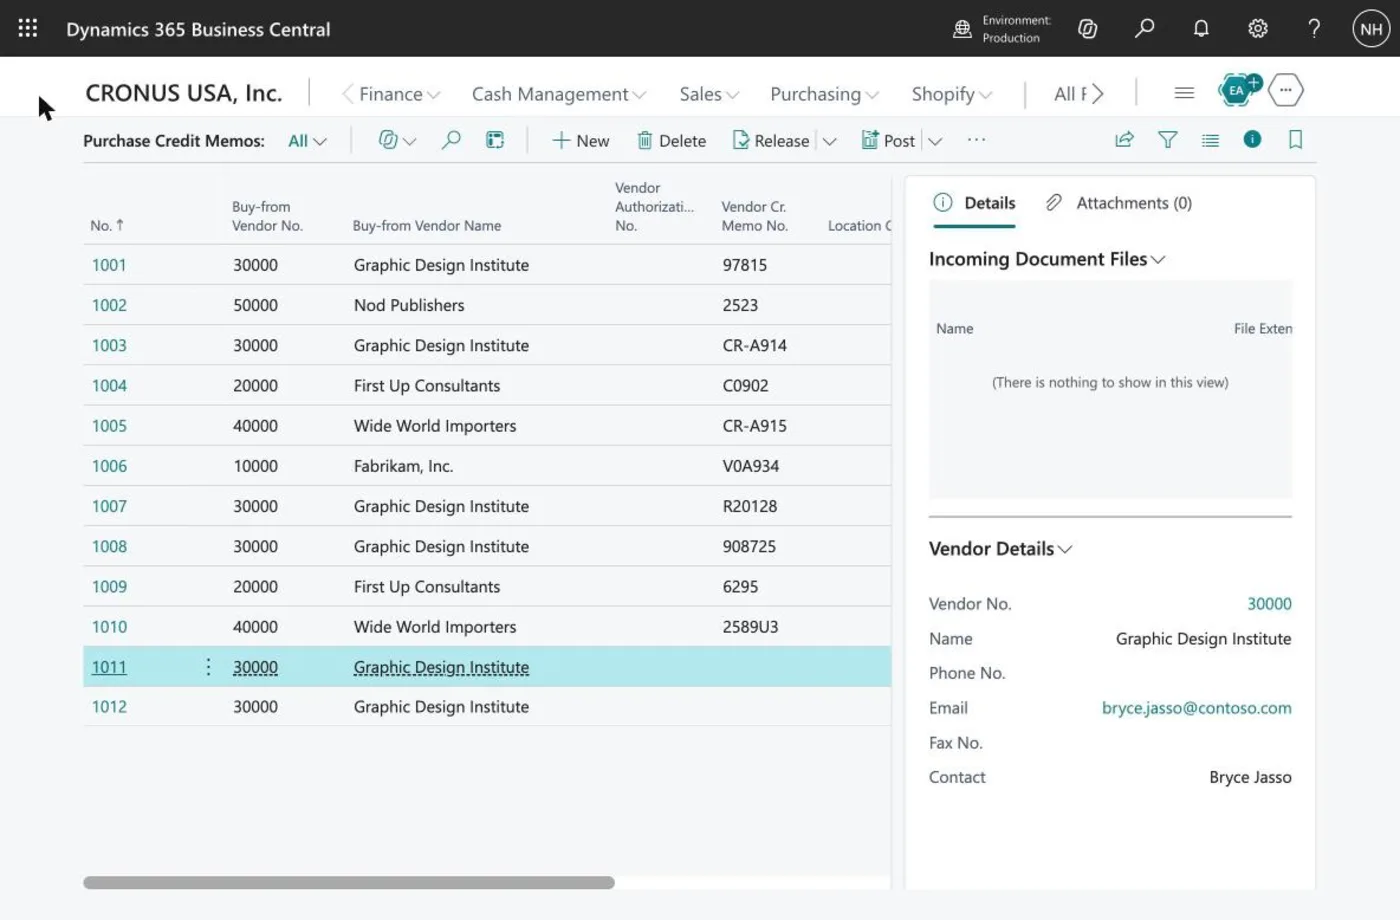
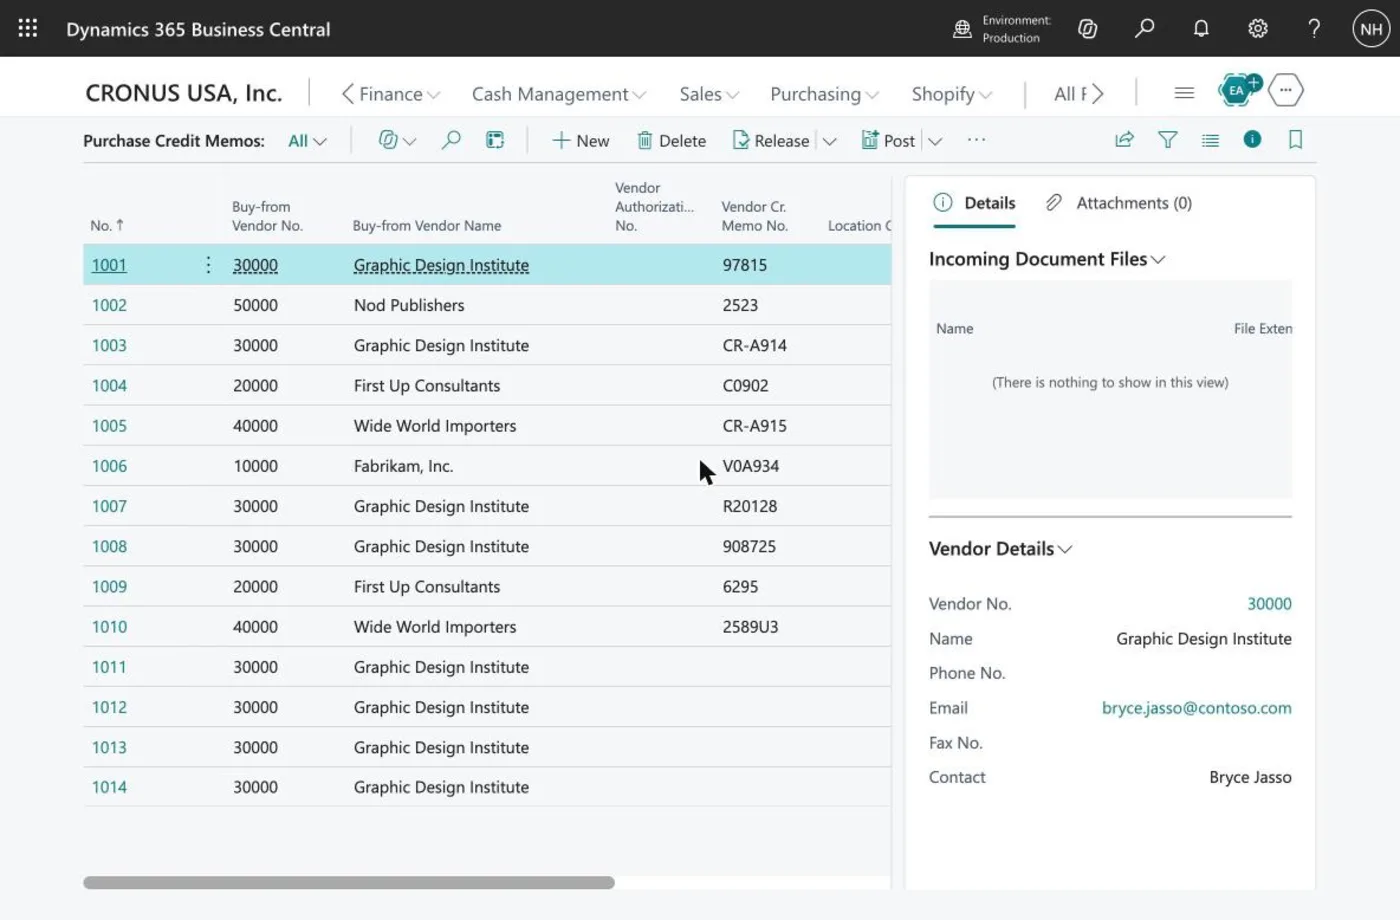
DeepSeek Harness part 4: purchase-order-anchored run, who holds which number, posted credits with vendor balance before and after

diff --git a/content/deepseekharnessaccounting.md b/content/deepseekharnessaccounting.md
@@ -21,8 +21,8 @@ In [LLM Benchmarking](/posts/llmbenchmark/) I measured six models on accountancy
 3. **What a chat answer gets right and wrong,** checked against Microsoft Learn.
 4. **How the harness approaches the case:** understand first, then look up, then ask, and do the sums with code.
 5. **What it needs besides the documentation:** the company's habits, the law, the vendor, and the records an auditor will want.
-6. **One run, start to finish,** on the real Cronus demo company, with screenshots of the draft credit memos it created.
-7. **What a person does next,** because the harness never posts.
+6. **One run, start to finish,** on the real Cronus demo company, from two purchase order numbers to two draft credit memos, with screenshots.
+7. **What a person does next:** check the tax, add the missing paper, approve and post, with the vendor balance before and after.
 
 **Why:** accounting work has branches, rules that live outside the product, and consequences that cannot be undone. A harness that looks things up, reads the ledger, shows its sources and stops at the right place is useful. A model that answers fluently is not enough, and the difference is easiest to see on a worked example.
 
@@ -51,7 +51,30 @@ This is a good test because there is no single answer. The right documents depen
 2. What happens to the **wrong** items: keep them free, keep them at a discount, or send them back?
 3. What happens to the **broken** items: scrap them here, send them back, or wait for replacements?
 
-For the run I used real data from Business Central's Cronus demo company. The vendor is Graphic Design Institute. Receipt 107145 is 10 lamps that all arrived broken, with a $385.00 credit agreed and the lamps scrapped here. Receipt 107149 is 10 mobile pedestals that arrived instead of the item ordered, kept for a $400.00 allowance, with 4 of the 10 already sold. Both invoices are posted.
+For the run I used real data from Business Central's Cronus demo company, and I started the scenario from **purchase order numbers**, because that is what the people who found the problem actually have. The vendor is Graphic Design Institute. Purchase order 106014 was 15 lamps, and 6 of the 15 arrived broken. The vendor agreed to credit $200.00 for them, and we will scrap them here. Purchase order 106015 was 5 yellow guest chairs that arrived with the wrong finish. We will keep them for a $75.00 allowance. Both orders were received and invoiced in February, and the invoices are posted.
+
+### In practice: who holds which number
+
+Think about who is in front of which document when the goods arrive.
+
+| Who | What they have in front of them | When |
+|---|---|---|
+| **Goods-in clerk** | The vendor's delivery note, our purchase order number, and the order's lines. Posting the receipt creates the receipt number. | The day the goods arrive |
+| **Buyer** | The purchase order number, the vendor's order confirmation and the negotiation. | Throughout |
+| **Accounts payable** | The vendor's invoice number, then our posted invoice number, the payment status and the vendor's credit note. | Days or weeks later |
+| **Controller** | The approval limits, and the finished file for the auditors. | At approval and at audit |
+
+The one number that every role shares is the **purchase order number**. The receipt number and the invoice number are created later, by different people, and the people who open the boxes rarely have them. That is why the harness should start from the purchase order number, and why I wrote the scenario that way.
+
+There are two moments when a problem is found. **At goods-in**, nothing is invoiced yet, and the fix is cheap: receive only what is good, or receive everything into a quality-control location, note the shortfall on the receipt, tell the buyer, and let the invoice be matched to what was really accepted. No credit memo is needed. **Later**, after the invoice is posted and paid, the fix is a credit memo and a claim. This post is about the second, harder case, which is also the one where the paperwork has to be traced back from the order.
+
+Here is what Business Central holds for these orders. The Purchase Orders list does not show 106014 or 106015 at all, because an order that is fully received and invoiced is deleted when the last invoice posts. The order number survives on the posted receipt and the posted invoice, which is how the harness finds them.
+
+![](assets/images/deepseekharnessaccounting/bc-purchase-orders-list.webp)
+*The open Purchase Orders list. The numbers jump from 106008 to 106024, because the fully invoiced orders 106014 and 106015 are no longer there*
+
+![](assets/images/deepseekharnessaccounting/bc-receipt-107222-order-no.webp)
+*Posted purchase receipt 107222. Order No. is 106014, and Vendor Shipment No., where the delivery note number belongs, is empty*
 
 :::brain-power Before you read on
 Which of the three questions above would change the Business Central documents the most? Keep your answer in mind. The harness has to find the answers in the ledger, and some of them it cannot find at all.
@@ -86,11 +109,12 @@ Microsoft Learn also has a training module for this kind of situation, [Manage r
 
 The order matters: understand first, then search. A model that has learned accounting can already see what kind of problem this is: a vendor allowance on goods that are partly sold, and a credit for goods that are scrapped. It can see that a $385 credit on $428 of lamps is a $43 loss, not a gain. No Business Central page says that. What the model cannot know from its weights is how **this product** behaves, and that is what the lookup is for:
 
-1. **Understand.** Before it searches, the harness writes a short analysis from the model's own knowledge of accounting, and marks every statement that depends on how Business Central behaves as "to verify".
-2. **Search.** It calls Microsoft Learn's MCP tool `microsoft_docs_search` with Business Central terms from the case, never figures or names.
-3. **Fetch and verify.** It reads the pages with `microsoft_docs_fetch`, and for each "to verify" statement says whether Learn confirms it, changes it, or does not cover it, with the page and the sentence.
-4. **Read the ledger.** It reads the facts of the case from Business Central itself, so it never asks a person for something the data holds.
-5. **Ask.** Only then does it ask the person the questions that neither the model, the documents nor the ledger can answer.
+1. **Anchor.** Start from the purchase order number. If the case has none, ask for it first. Follow the order number to the receipts and invoices in the ledger.
+2. **Understand.** Before it searches, the harness writes a short analysis from the model's own knowledge of accounting, and marks every statement that depends on how Business Central behaves as "to verify".
+3. **Search.** It calls Microsoft Learn's MCP tool `microsoft_docs_search` with Business Central terms from the case, never figures or names.
+4. **Fetch and verify.** It reads the pages with `microsoft_docs_fetch`, and for each "to verify" statement says whether Learn confirms it, changes it, or does not cover it, with the page and the sentence.
+5. **Read the rest of the ledger.** It reads the other facts of the case from Business Central itself, so it never asks a person for something the data holds.
+6. **Ask.** Only then does it ask the person the questions that neither the model, the documents nor the ledger can answer.
 
 If nothing documents a step, the harness says so and asks a person. It also does the arithmetic with code and not in its head, for example the share of an allowance across receipt lines.
 
@@ -114,67 +138,83 @@ Things also go wrong: a vendor that has stopped trading, a vendor blocked in Bus
 
 ## Step 4: One run, start to finish
 
-For the run I used DeepSeek Harness in its headless mode with the DeepSeek V4 Flash model. It had two connections: the Microsoft Learn MCP server, and the Business Central MCP server with a configuration that could read the ledger and create and modify purchase credit memos and their lines, and nothing else. (The setup, and what went wrong on the way, is in [Connecting DeepSeek Harness to Business Central](/posts/deepseekharnessbusinesscentral/).) The harness also had the company wiki and a skill that set out the method. I gave it the scenario and asked for five things: look up the product behaviour, read the ledger, name the jurisdiction and look up the tax rule and the GAAP treatment, write a plan with a source for each step, then create the two draft credit memos and never post. Here is the run, as a conversation. Every quoted line is a real query or a real reply from the logs, and long replies are cut.
+For the run I used DeepSeek Harness in its headless mode with the DeepSeek V4 Flash model. It had two connections: the Microsoft Learn MCP server, and the Business Central MCP server with a configuration that could read the ledger and create and modify purchase credit memos and their lines, and nothing else. (The setup, and what went wrong on the way, is in [Connecting DeepSeek Harness to Business Central](/posts/deepseekharnessbusinesscentral/).) The harness also had the company wiki and a skill that set out the method, starting with "start from the purchase order number". I gave it the scenario above and asked for four things: read the ledger from the purchase orders, look up the product behaviour, name the jurisdiction and look up the tax rule and the GAAP treatment, and write a plan with a source for each step. Then I asked it to create the two draft credit memos and never post. Here is the run, as a conversation. Every quoted line is a real query or a real reply from the logs, and long replies are cut.
 
 ![](assets/images/deepseekharnessaccounting/fireside-deepseek.svg)
-*DeepSeek Harness works one vendor dispute from start to finish*
+*DeepSeek Harness starts from two purchase order numbers and ends with two draft credit memos*
 
 ### What it read
 
-The harness read the vendor, the receipts, the invoice lines, the item ledger, the accounting periods and the existing credit memos. It found that receipt 107145 is 10 lamps at $42.80, a cost of $428.00, and receipt 107149 is 10 pedestals at $338.20, a cost of $3,382.00. Nothing in the data links a receipt to its invoice, so it matched them by posting date and exact amount, and asked a person to confirm. This is what it was looking at in the Business Central web client. Invoice 108139 for the lamps is paid, and the related G/L entries show the payment out of cash:
+The harness looked for orders 106014 and 106015 first and found nothing, and then listed all 14 open orders to be sure. Then it did what the numbers allow: it searched the posted receipts and invoices for those order numbers. Order 106014 led to receipt **107222** (15 lamps at $42.80, a cost of $642.00) and invoice **108216**. Order 106015 led to receipt **107223** (5 chairs at $150.30, a cost of $751.50) and invoice **108217**. Both invoices are paid, and both were posted on 28 February 2026, so the credits cannot reduce an unpaid balance. They become a refund to claim, or a balance to offset. Here is invoice 108216 in the web client. In this demo data the Vendor Invoice No. field repeats the purchase order number, which is a second way to reach the invoice from the order:
 
-![](assets/images/deepseekharnessaccounting/bc-posted-invoice-108139-paid.webp)
-*Posted purchase invoice 108139 for the lamps. The related G/L entries include a cash payment of $453.68, so the invoice is paid*
-
-![](assets/images/deepseekharnessaccounting/bc-posted-invoice-108143.webp)
-*Posted purchase invoice 108143 for the 10 ATHENS Mobile Pedestals, item 1906-S, $3,382.00 plus $202.92 tax*
-
-Both invoices are paid, so the credits cannot reduce an unpaid balance. They become a refund to claim, or a balance to offset. It also found the periods up to October 2025 closed, so the credits must post in an open period.
+![](assets/images/deepseekharnessaccounting/bc-invoice-108216.webp)
+*Posted purchase invoice 108216 for the lamps. Its Vendor Invoice No. is 106014, the purchase order number*
 
 ### What it concluded
 
-It worked out that the $385.00 credit leaves $43.00 of the lamps' $428.00 cost unrecovered, and that the $400.00 allowance on the pedestals is $160.00 against the 4 sold and $240.00 against the 6 in stock. For the tax it chose **Florida**, because the vendor is in Miami and both invoices were taxed at 6%, citing Fla. Stat. § 212.17 and Rule 12A-1.014, and noting that the lamps are scrapped, not returned, so the statute does not fit them on its face. For the accounting it cited ASC 705-20-25-1, read in KPMG's public inventory handbook because the FASB Codification is paywalled, and flagged both credits for a qualified accountant. It applied the wiki: the lamps cost $42.80 a unit, under $50, so scrapping them is right, and each credit is under the $500 approval limit, though together they are $785.
+For the tax it chose **Florida**, because the vendor is in Miami and the invoices are taxed at exactly 6%, citing Fla. Stat. § 212.17 (the credit must carry the tax). It also said what it could not settle: the ship-to on both invoices is Atlanta, so Florida tax on a Georgia delivery may be the wrong situs, and it asked a person to confirm. That question was the right one. The harness could not see the field that settles it, because the API does not return a tax area. In the web client the posted invoices carry **Tax Area Code ATLANTA, GA**, so its Florida conclusion was wrong, and I come back to this below. For the accounting it cited ASC 705-20-25-1, read in KPMG's public inventory handbook because the FASB Codification is paywalled, and flagged both credits for a qualified accountant. It also asked how to spread the $200.00: across all 15 lamps, which takes the unit cost from $42.80 to $29.47, or only over the 6 broken ones, which is $33.33 a lamp.
+
+Not all of its lookups were useful. The internet search returned an unrelated tax-credit form among the Florida statutes, and one Learn search returned a page about Canadian sales tax. The harness read past them, which is what a harness should do and what a person would have to do too.
 
 ### What it created
 
-Then it created the drafts. These are the two credit memos in Business Central, listed beside the existing ones. Memos 1011 and 1012 have no vendor credit memo number, because the vendor has not issued one:
+Then it created the drafts. These are the two credit memos in Business Central, listed beside the existing ones. Memos 1013 and 1014 have no vendor credit memo number, because the vendor has not issued one. (1011 and 1012 are earlier test drafts from my first run, and the harness noticed them and flagged them.)
 
 ![](assets/images/deepseekharnessaccounting/bc-draft-credit-memos-list.webp)
-*The Purchase Credit Memos list. 1011 and 1012 are the harness's drafts. The Vendor Cr. Memo No. column is empty because the vendor has not issued a credit note*
+*The Purchase Credit Memos list. 1013 and 1014 are the harness's drafts. The Vendor Cr. Memo No. column is empty because the vendor has not issued a credit note*
 
-![](assets/images/deepseekharnessaccounting/bc-draft-1011-open.webp)
-*Draft credit memo 1011 for Graphic Design Institute. Its status is Open, so it is not posted. The Post button is there for a person to use*
+![](assets/images/deepseekharnessaccounting/bc-draft-1013-open.webp)
+*Draft credit memo 1013 for Graphic Design Institute. Its status is Open, so it is not posted. The Post button is there for a person to use*
 
-![](assets/images/deepseekharnessaccounting/bc-draft-1011-lines.webp)
-*Draft 1011: one line, subtotal $385.00, tax $11.55, total $396.55*
+![](assets/images/deepseekharnessaccounting/bc-draft-1013-lines.webp)
+*Draft 1013 for the lamps: one line, subtotal $200.00, tax $6.00, total $206.00*
 
-![](assets/images/deepseekharnessaccounting/bc-draft-1012-lines.webp)
-*Draft 1012 for the pedestals: subtotal $400.00, tax $12.00, total $412.00*
+![](assets/images/deepseekharnessaccounting/bc-draft-1014-lines.webp)
+*Draft 1014 for the chairs: subtotal $75.00, tax $2.25, total $77.25*
 
-Each draft has one line of type **G/L Account**, number 72140, with a description that names the receipt, for example "Purchase allowance - Receipt 107145 - 10 AMSTERDAM Lamps 1928-S, all broken, scrapped on site".
+Each draft has one line of type **G/L Account**, number 72140, with a description that names both the purchase order and the receipt, for example "Purchase allowance PO 106014 / posted receipt 107222 - 6 of 15 AMSTERDAM Lamps 1928-S arrived broken". The run also shows the small frictions of working through an API. The harness created memo 1013 with a posting date from the end of the demo data and then corrected it, and its first description for 1014 was 105 characters when the field holds 100, so Business Central rejected it and it shortened the text.
 
 ### What it could not do
 
-The harness first tried the documented line: type **Charge (Item)**, using the wiki's `PURCH-ALLOW` item charge. Business Central answered "The Item Charge does not exist", and no tool can create item charges, so it fell back to a G/L account line. It said plainly what that costs: **a G/L line does not revalue inventory**, which is the whole point of the allowance procedure. It listed the rest of what it could not do:
+The harness first tried the documented line: type **Charge (Item)**, using the wiki's `PURCH-ALLOW` item charge. Business Central answered "The Item Charge does not exist", and no tool can create item charges, so it fell back to a G/L account line. It said plainly what that costs: **a G/L line does not revalue inventory**, which is the whole point of the allowance procedure, and it noted that this contradicts the wiki rather than following the wiki silently. It listed the rest of what it could not do:
 
-- It could not assign the allowance to the receipts, apply the credits to the paid invoices, scrap the lamps or run **Adjust Cost - Item Entries**.
-- The tax on the drafts came out at 3%, not 6%, because the API cannot set the tax area, which leaves the two memos $23.55 short.
+- It could not assign the allowance to the receipts, because the assignment is a screen action. It could not apply the credits to the paid invoices, scrap the lamps, run **Adjust Cost - Item Entries** or put the invoices on hold, as the wiki's hold rule asks, which was moot anyway because both invoices are paid.
+- The tax on the drafts came out at 3%, not 6% ($6.00 and $2.25 instead of $12.00 and $4.50). The harness said the API cannot set the tax area on the header. As the next section shows, that was not the cause.
 - It reported that the header totals read 0.00 through the API. In the Business Central web client they are correct, as the screenshots show.
-- It could not see the vendor ledger entries to confirm the open balance.
 
-It stopped with seven questions for a person, among them: the vendor's credit note numbers and dates; whether the two credits are one $785 claim needing the controller or two under the limit; which four pedestals were sold, since the ledger shows a single shipment of 10; whether the jurisdiction is Florida (the vendor) or Georgia (both receipts ship to Atlanta); whether `PURCH-ALLOW` should be created; and how to treat four older draft credit memos for the same vendor that may overlap.
+It stopped with four questions for a person: who sets the tax area before posting, and whether 6% Florida tax is what the vendor will actually credit given the Atlanta delivery; whether to create `PURCH-ALLOW` and redo the drafts on it; how to spread the $200.00 over the lamps; and who confirms ASC 705-20 against the Codification before anyone posts.
 
-The run took 8 minutes 58 seconds. Nothing was posted, because the harness had no tool that posts.
+The run took 6 minutes 17 seconds. Nothing was posted, because the harness had no tool that posts.
 
-## Step 5: What a person does next
+## Step 5: What a person does next, and then did
 
-The harness never posts. Its output is a plan with sources and two unposted drafts, and a person has more to do before posting:
+The harness never posts. Its output is a plan with sources and two unposted drafts, and a person has more to do before posting. I played that person, with the same Business Central tools open in the web client, and I recorded each step.
 
-1. **Check the draft against the plan.** The harness stated its own limits, so the person knows where to look.
-2. **Fix the line.** Create the item charge, change each G/L line to a **Charge (Item)** line, and assign it to the receipt, so that inventory is revalued and the cost reaches the cost of goods sold.
-3. **Fix the tax.** Set the tax area so the credits carry 6% and not 3%, and settle Florida or Georgia with an accountant.
-4. **Get the paper.** Fill in the vendor's credit note number once the vendor issues it, and keep the vendor's written agreement and the evidence of the defect with the file.
-5. **Approve and post.** Someone with authority approves, then posts in an open period. Then the person applies the credits to the paid invoices, or claims the refund, and runs **Adjust Cost - Item Entries**.
+**Before.** Vendor 30000 had a balance of $9,979.57:
+
+![](assets/images/deepseekharnessaccounting/bc-vendor-balance-before.webp)
+*Graphic Design Institute before posting: balance $9,979.57*
+
+**Check the tax, and find that the harness was wrong.** Both drafts already had Tax Area Code ATLANTA, GA and the line tax group FURNITURE, the same as the posted invoices, so the harness's explanation (the API cannot set the area) was not the cause. The cause is in the Tax Details: the rates have effective dates, and a new set takes effect on 31 August 2026. A credit memo dated 13 November 2026 picks up the new, lower rate, 3%, while the invoices from February used the old one, 6%. The harness could not see this. Nothing in the API shows tax rates by date, and it is the kind of thing that a person with the right page open finds in a minute.
+
+![](assets/images/deepseekharnessaccounting/bc-tax-details-effective-dates.webp)
+*Tax Details: each jurisdiction has rates with effective dates of 1 January 2024 and 31 August 2026. A document dated after 31 August takes the newer rate*
+
+To reverse the tax at the rate the vendor originally charged, I dated both credits 30 August 2026, the last day of the old rates. The tax then came out at 6% ($12.00 and $4.50). That is a workaround for this demo data. In a real company the accountant decides which rate applies to a credit for an invoice from an earlier period, and the harness's job is to raise the question, which it did.
+
+**Get the paper.** Business Central will not post a credit memo without a Vendor Cr. Memo No. The vendor has not issued a credit note, so I entered the obviously fake references TEST-1013 and TEST-1014. In real life this is the vendor's own document, and a harness must never invent it.
+
+**Approve and post.** I released each memo and posted it. Business Central posted 1013 as **109001** and 1014 as **109002**:
+
+![](assets/images/deepseekharnessaccounting/bc-credit-memo-posted-109001.webp)
+*Posted purchase credit memo 109001: G/L account 72140, subtotal $200.00, tax $12.00, total $212.00*
+
+**After.** The vendor's balance fell by the two credits, $212.00 and $79.50:
+
+![](assets/images/deepseekharnessaccounting/bc-vendor-balance-after.webp)
+*Graphic Design Institute after posting: balance $9,688.07, which is $9,979.57 less $291.50*
+
+Two things are still not right. The lines are G/L account lines, so inventory is **not** revalued and the lower cost does not reach the cost of goods sold. The documented route is a Charge (Item) line assigned to the receipt, followed by **Adjust Cost - Item Entries**. And the credits are not applied to the paid invoices, so the balance reflects a vendor refund still to be claimed. Both are for a person with the item charge set up.
 
 :::no-dumb-questions
 **Q: Is this more work than asking the chat assistant?**
@@ -205,7 +245,7 @@ The cost of goods sold for the items that you already sold has not changed, so y
 - A chat answer can be fluent and incomplete. The errors that matter are the steps it leaves out, and a harness with documentation tools finds them.
 - Start the plan from what the model knows about accounting, mark what depends on the product, then verify it against the documentation and the ledger. Search before fetching, and tie every step to a source.
 - Four sources besides the documentation matter: the company's habits, the law and the standards, the vendor, and the audit records. The settlement is a negotiation unless the terms were agreed in advance, and the harness informs it, drafts for it, and could negotiate within a written mandate once a person trusts it to.
-- In the run, the harness read the real ledger, found both invoices paid, cited Florida tax law and ASC 705-20 and said where it could not read the primary text, and created two unposted draft credit memos.
+- Start from the purchase order number: it is the one number every role shares. In the run, the harness followed the order numbers to the receipts and invoices, found both invoices paid, cited Florida tax law and ASC 705-20 and said where it could not read the primary text, and created two unposted draft credit memos. A person then found the tax-rate effective date that the harness could not see, dated the credits to reverse the tax at the original rate, and posted them, and the vendor's balance fell from $9,979.57 to $9,688.07.
 - It also said what it could not do: the documented item charge did not exist, the tax came out wrong, and the questions that only a person can answer stayed open.
 - The harness drafts, and a person posts.
 - It also works in Claude Code.
